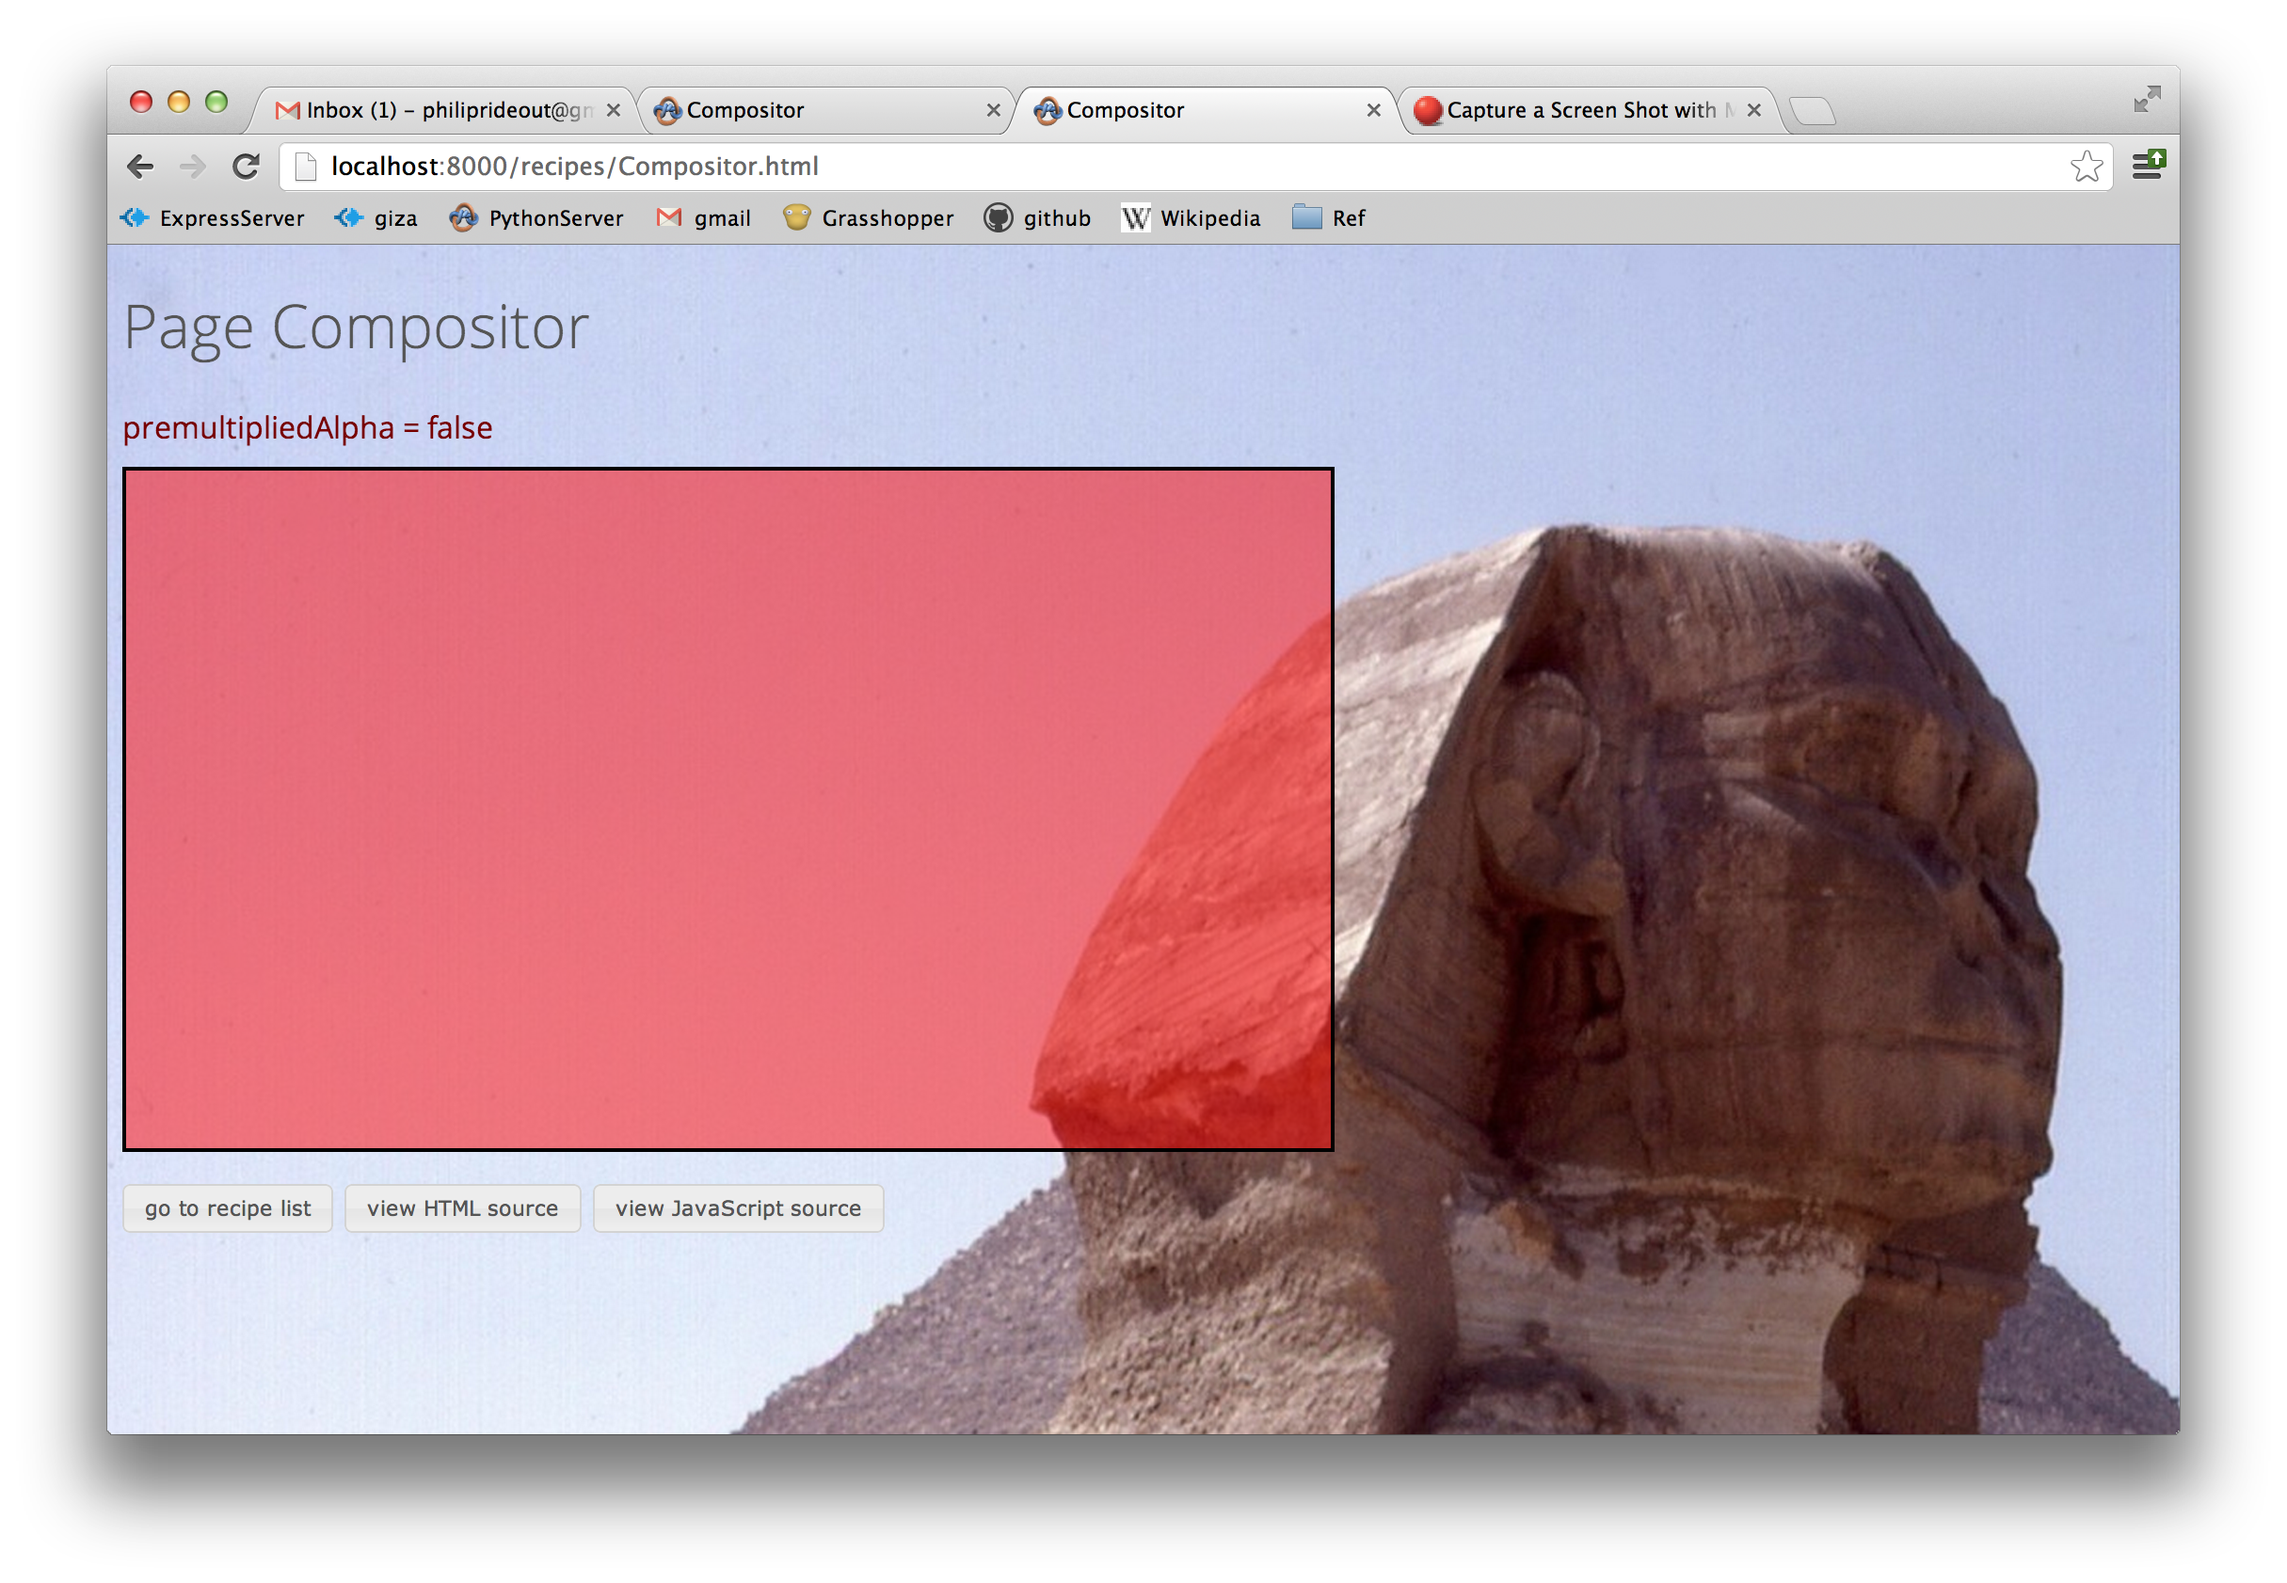
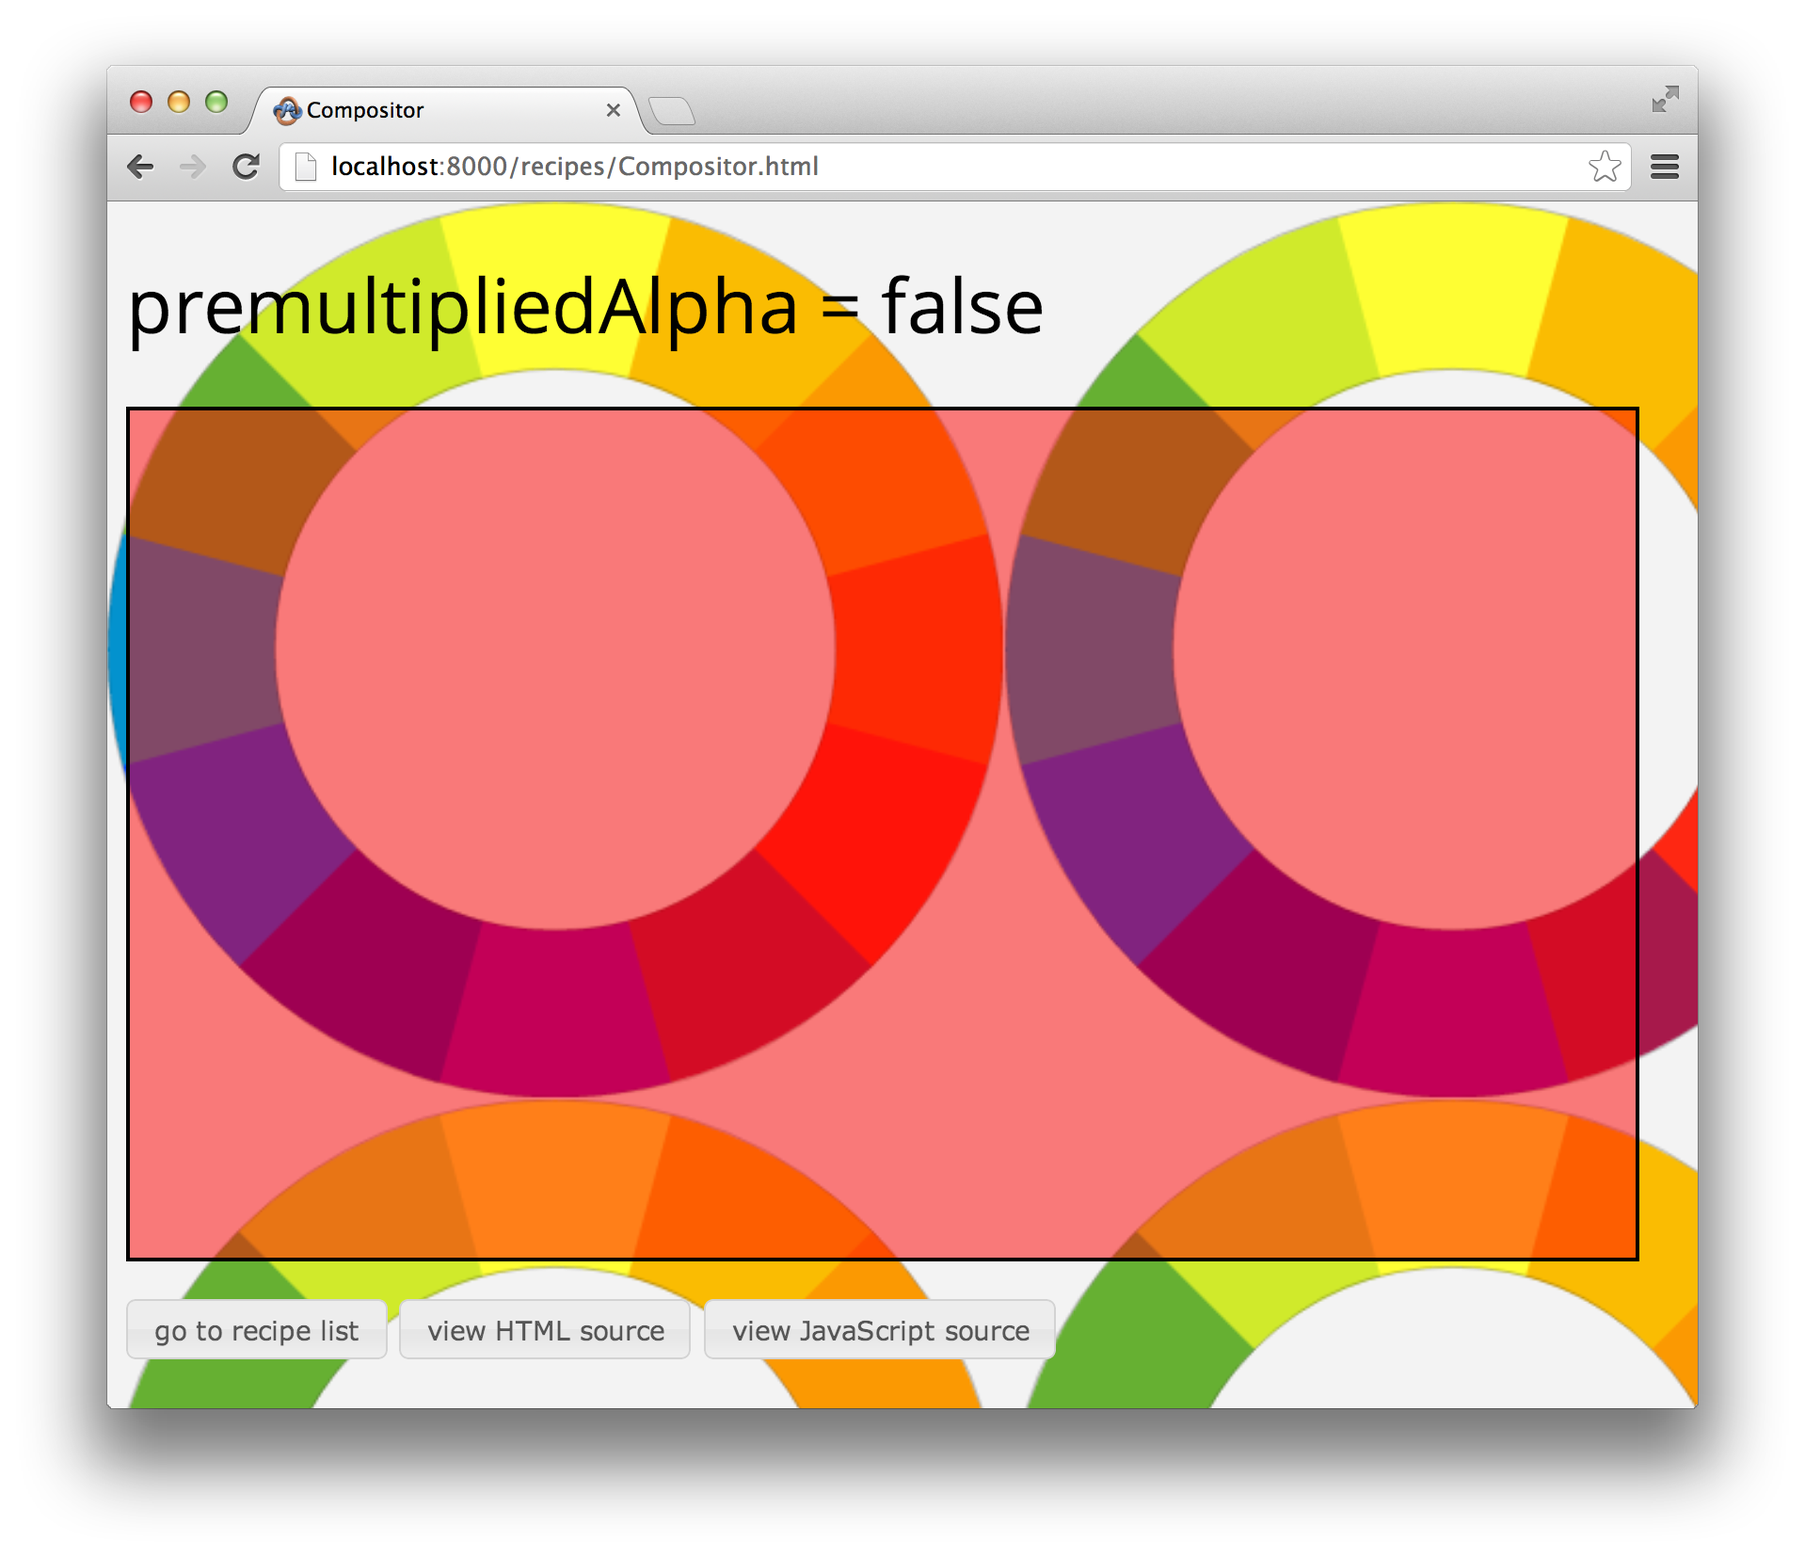
wording

diff --git a/figures/Premult.js b/figures/Premult.js
@@ -17,6 +17,7 @@ var singleWidth = 0;
 var totalWidth = 0;
 var maxHeight = 0;
 var padding = 50;
+var stripTop = 0; // 260
 
 var combine = function() {
 
@@ -27,7 +28,7 @@ var combine = function() {
     args = [
       srcFiles[i],
       '-gravity', 'South',
-      '-crop', singleWidth + 'x' + (maxHeight - 260) + '+0+0',
+      '-crop', singleWidth + 'x' + (maxHeight - stripTop) + '+0+0',
       genFile,
     ];
     im.convert(args, function() {

diff --git a/recipes/Compositor.js b/recipes/Compositor.js
@@ -3,8 +3,8 @@ var main = function() {
   var options = {};
   COMMON.bindOptions(options, '#checks');
 
-  var pma = true; // default is TRUE
-  $(".tagline").text("premultipliedAlpha = " + pma);
+  var pma = false; // default is TRUE
+  $("h1").text("premultipliedAlpha = " + pma);
 
   GIZA.init(null, {
     preserveDrawingBuffer: false,

diff --git a/recipes/Compositor.html b/recipes/Compositor.html
@@ -11,6 +11,10 @@
       body {
           background-image: url("media/BYR_color_wheel.svg"); 
       }
+      h1 {
+          font-weight: 500;
+          color: #000;
+      }
     </style>
   </head>
   <body>

diff --git a/latex/chapter01.tex b/latex/chapter01.tex
@@ -284,7 +284,7 @@ http://stackoverflow.com/questions/9491417/when-webgl-decide-to-update-the-displ
 \section{Animation Timing}
 \summary{How to periodically trigger draw events.}
 
-You wouldn't be learning WebGL unless you were interested in animation.  WebGL applications generally issue all rendering commands for a given 3D scene in a \term{draw cycle}.  The easiest but also most naive way of doing this in JavaScript is \code{setInterval}:
+You wouldn't be learning WebGL unless you were interested in animation.  WebGL applications generally issue all rendering commands for a given 3D scene in a \term{draw cycle}.  The easiest but most naive way of doing this in JavaScript is \code{setInterval}:
 
 \begin{lstlisting}[language=JavaScript]
 // Call myDrawFunc() every 60th of a second
@@ -292,9 +292,9 @@ var delay = 1 / 60;
 window.setInterval(myDrawFunc, delay / 1000);
 \end{lstlisting}
 
-The above approach isn't ideal for high-performing 3D graphics -- it's preferable to hook in to the browser's native rendering loop.  This allows your animation routine to become idle if the browser has no need to draw itself (e.g., if the window is minimized), saving precious battery life and CPU cycles.  It also aligns animation with the refresh rate of the monitor, preventing chopiness.
+The above approach is hardly ideal for high-performing 3D graphics -- it's preferable to hook in to the browser's native rendering loop.  This allows your animation routine to become idle if the browser has no need to draw itself (e.g., if the window is minimized), saving precious battery life and CPU cycles.  It also aligns your animation with the refresh rate of the monitor, preventing chopiness.
 
-At the time of this writing, all major browsers supply a method on \code{window} exactly for this purpose, although it has a vendor-specific prefix until it becomes fully standardized.  Giza's \code{init} function handles this for you, as seen in Listing~\ref{lst:GIZA:init2}
+At the time of this writing, all major browsers supply a method on \code{window} exactly for this purpose, although it has a vendor-specific prefix until it becomes fully standardized.  Giza's \code{init} function handles this for you, as seen in Listing~\ref{lst:GIZA:init2}.
 
 \begin{lstlisting}[
     caption={Initializing \code{requestAnimationFrame}.},
@@ -311,7 +311,7 @@ GIZA.init = function(canvasElement) {
     window.msRequestAnimationFrame;
 \end{lstlisting} \index{\code{GIZA.init}}
 
-It's important to note that \code{requestAnimationFrame} is actually more like \code{setTimeout} than \code{setInterval} in that you need to call it again if you wish another draw cycle to occur.  We provide a function in the \code{COMMON} namespace that can be called at the end of your function to request another draw cycle, and to check the WebGL error state.  This is good practice to ensure clean, error-free code.  See Listing~\ref{lst:COMMON:endFrame}.
+Note that \code{requestAnimationFrame} is actually more like \code{setTimeout} than \code{setInterval} because it doesn't automatically repeat itself.  Our \code{COMMON} layer provides a function that can be called at the end of your draw function to request the next animation cycle.  It also checks the WebGL error state, and halts animation if an error occurs.  This is good practice to maintain clean, error-free code.  See Listing~\ref{lst:COMMON:endFrame}.
 
 \begin{lstlisting}[
     caption={Common end-of-frame tasks.},
@@ -374,7 +374,7 @@ While giza has no dependencies on any JavaScript libraries, the \code{COMMON} la
 \item[jQuery] John Resig's ``write less do more'' library.
 \end{description}
 
-HeadJS helps us make each recipe-specific HTML file very simple by sharing a list of JavaScript libraries in \code{common.js}, instead of including a huge number of \code{<script>} tags in every HTML file.  It also has the benefit of loading scripts asynchronously for better performance.  See Listing~\ref{lst:COMMON:file} for \code{common.js}.  We'll extend this file in future chapters by adding some small utilities for loading textures, compiling shaders, etc.
+HeadJS enables us to simplify our HTML by sharing a list of JavaScript libraries in \code{common.js}, instead of duplicating a large set of \code{<script>} tags in every HTML file.  It also has the benefit of loading scripts asynchronously for better performance.  See Listing~\ref{lst:COMMON:file} for \code{common.js}.  We'll extend this file in future chapters by adding some small utilities for loading textures, compiling shaders, etc.
 
 \begin{lstlisting}[
     caption={\code{common.js}},
@@ -402,11 +402,10 @@ head.js(
 head.ready(main);
 
 // Define various utility methods:
-
 COMMON.endFrame = ...; // see %\color{purple}Listing~\ref{lst:COMMON:endFrame}.%
 \end{lstlisting} \index{\code{common.js}}
 
-Each recipe in the book consists of two files: \code{RecipeName.html} and \code{RecipeName.js}.  The latter defines a function \code{main} which we pass to \code{head.ready} to ensure that it executes after all libraries are loaded and the document is ready.
+Each recipe in the book consists of two files: \code{RecipeName.html} and \code{RecipeName.js}.  The latter defines a function \code{main}, which we pass to \code{head.ready} to ensure that it executes after all libraries are loaded.
 
 \begin{comment}
 {RecipeName}.js
@@ -418,7 +417,7 @@ lib/giza.min.js
 lib/stats.min.js
 \end{comment}
 
-Next let's take a look at the \code{main} function for the Strobe Light in  recipe.  See Listing~\ref{lst:StrobeLight2}.
+Next let's take a look at the \code{main} function for the Strobe Light recipe.  See Listing~\ref{lst:StrobeLight2}.
 
 \begin{lstlisting}[
     caption={\code{StrobeLight.js}},
@@ -427,7 +426,7 @@ Next let's take a look at the \code{main} function for the Strobe Light in  reci
     language=JavaScript]
 var main = function() {
 
-  GIZA.init(); // see %\color{purple}Listing~\ref{lst:GIZA:init1} and \ref{lst:GIZA:init2}%
+  GIZA.init(); // see %\color{purple}Listings~\ref{lst:GIZA:init1} and \ref{lst:GIZA:init2}%
   var gl = GIZA.context;
 
   var draw = function(currentTime) {
@@ -443,12 +442,12 @@ var main = function() {
 };
 \end{lstlisting} \index{\code{StrobeLight.js}}
 
-By now you should understand everything in Listing~\ref{lst:StrobeLight2}.  
+By now you should understand everything in Listing~\ref{lst:StrobeLight2}, but just in case here's what's happening:
 
 \begin{enumerate}
-\item Call \code{GIZA.init()} and fetch the context object that it extracted from the \code{<canvas>} element.
-\item Define a draw function that applies a sine function to the current time (in milliseconds) to modulate the background between amber and yellow colors.  It calls \code{COMMON.endFrame} at the end so that another animation frame is always requested, unless a WebGL error occurs.
+\item Call \code{GIZA.init()} and create an alias to the context object that was extracted from the \code{<canvas>} element.
+\item Define a draw function that applies a sine function to the current time (in milliseconds), using it to modulate the background color between amber and yellow.  It calls \code{COMMON.endFrame} at the end so that another animation frame is always requested, unless a WebGL error occurs.
 \item Finally, call \code{draw(0)} to kick off the infinite animation.
 \end{enumerate}
 
-This was a rather boring example, but it was just a ``Hello world'' -- we'll start drawing actual 3D geometry in the chapter.
+This was a rather boring example, but it was just a Hello World.  We'll start drawing actual 3D geometry in the next chapter.

diff --git a/README.md b/README.md
@@ -1,8 +1,5 @@
 # master
 
-- Compositor Sample background.
-  My explanation of premultiplied alpha sucks.
-
 - Update nodejitsu server and mail Nagle
 
 - Mail stuff to publishers, perhaps through my nodejitsu site?
@@ -33,6 +30,9 @@
   - degenerate triangle
   - Move eval into a worker?
   
+- My explanation of premultiplied alpha sucks.
+  There's a twitter link to a NVIDIA post about this.
+
 - pycollada -> King Tut
 
 # server 
